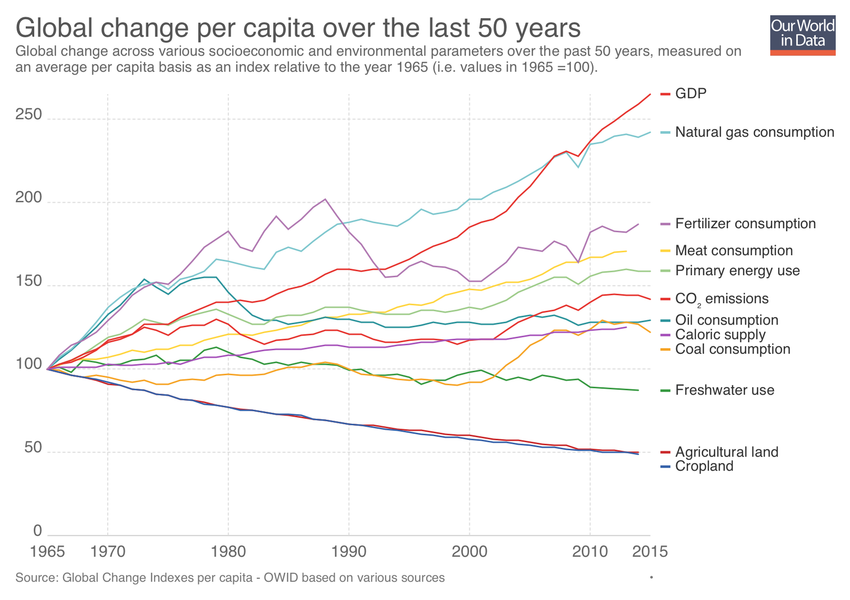
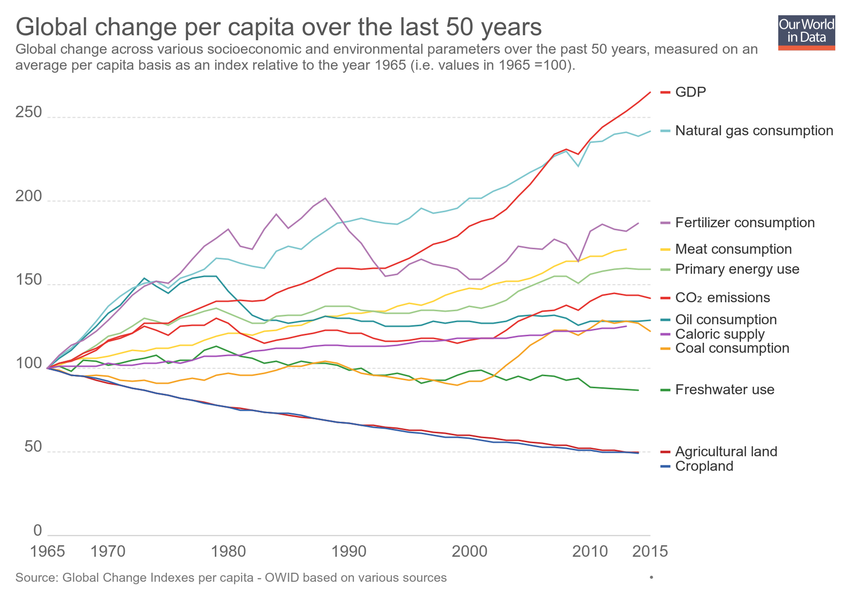
Updating chart global-change-per-capita-over-the-last-50-years

diff --git a/grapher/global-change-per-capita-over-the-last-50-years.html b/grapher/global-change-per-capita-over-the-last-50-years.html
@@ -1,4 +1,4 @@
-<!doctype html><html><head><meta name="viewport" content="width=device-width, initial-scale=1" /><title>Global change per capita over the last 50 years - Our World in Data</title><meta name="description" content="Global change across various socioeconomic and environmental parameters over the past 50 years, measured on an average per capita basis as an index relative to the year 1965 (i.e. values in 1965 =100)." /><link rel="canonical" href="https://ourworldindata.org/grapher/global-change-per-capita-over-the-last-50-years" /><meta property="fb:app_id" content="1149943818390250" /><meta property="og:url" content="https://ourworldindata.org/grapher/global-change-per-capita-over-the-last-50-years" /><meta property="og:title" content="Global change per capita over the last 50 years" /><meta property="og:description" content="Global change across various socioeconomic and environmental parameters over the past 50 years, measured on an average per capita basis as an index relative to the year 1965 (i.e. values in 1965 =100)." /><meta property="og:image" content="https://ourworldindata.org/grapher/exports/global-change-per-capita-over-the-last-50-years.png?v=1" /><meta property="og:image:width" content="850" /><meta property="og:image:height" content="600" /><meta property="og:site_name" content="Our World in Data" /><meta name="twitter:card" content="summary_large_image" /><meta name="twitter:site" content="@OurWorldInData" /><meta name="twitter:creator" content="@OurWorldInData" /><meta name="twitter:title" content="Global change per capita over the last 50 years" /><meta name="twitter:description" content="Global change across various socioeconomic and environmental parameters over the past 50 years, measured on an average per capita basis as an index relative to the year 1965 (i.e. values in 1965 =100)." /><meta name="twitter:image" content="https://ourworldindata.org/grapher/exports/global-change-per-capita-over-the-last-50-years.png?v=1" /><style>
+<!doctype html><html><head><meta name="viewport" content="width=device-width, initial-scale=1" /><title>Global change per capita over the last 50 years - Our World in Data</title><meta name="description" content="Global change across various socioeconomic and environmental parameters over the past 50 years, measured on an average per capita basis as an index relative to the year 1965 (i.e. values in 1965 =100)." /><link rel="canonical" href="https://ourworldindata.org/grapher/global-change-per-capita-over-the-last-50-years" /><meta property="fb:app_id" content="1149943818390250" /><meta property="og:url" content="https://ourworldindata.org/grapher/global-change-per-capita-over-the-last-50-years" /><meta property="og:title" content="Global change per capita over the last 50 years" /><meta property="og:description" content="Global change across various socioeconomic and environmental parameters over the past 50 years, measured on an average per capita basis as an index relative to the year 1965 (i.e. values in 1965 =100)." /><meta property="og:image" content="https://ourworldindata.org/grapher/exports/global-change-per-capita-over-the-last-50-years.png?v=2" /><meta property="og:image:width" content="850" /><meta property="og:image:height" content="600" /><meta property="og:site_name" content="Our World in Data" /><meta name="twitter:card" content="summary_large_image" /><meta name="twitter:site" content="@OurWorldInData" /><meta name="twitter:creator" content="@OurWorldInData" /><meta name="twitter:title" content="Global change per capita over the last 50 years" /><meta name="twitter:description" content="Global change across various socioeconomic and environmental parameters over the past 50 years, measured on an average per capita basis as an index relative to the year 1965 (i.e. values in 1965 =100)." /><meta name="twitter:image" content="https://ourworldindata.org/grapher/exports/global-change-per-capita-over-the-last-50-years.png?v=2" /><style>
         html, body {
             height: 100%;
             margin: 0;
@@ -20,8 +20,8 @@
         }
     </style><noscript><style>
                     figure { display: none !important; }
-                </style></noscript><link rel="stylesheet" href="https://ourworldindata.org/grapher/assets/commons.bundle.019a92548339820130b6.css" /><link rel="preload" href="/grapher/data/variables/43095+43096+43097+43098+43099+43100+43102+43103+43104+43106+43112+43113+43111.json?v=1" as="fetch" crossorigin /></head><body class="singleChart"><figure data-grapher-src="/grapher/global-change-per-capita-over-the-last-50-years"></figure><noscript id="fallback"><img src="/grapher/exports/global-change-per-capita-over-the-last-50-years.svg" /><p>Interactive visualization requires JavaScript</p></noscript><script src="https://cdn.polyfill.io/v2/polyfill.min.js?features=es6,fetch"></script><script src="https://ourworldindata.org/grapher/assets/commons.bundle.019a92548339820130b6.js"></script><script src="https://ourworldindata.org/grapher/assets/charts.bundle.dcf65b68eddaba4c6a58.js"></script><script>
-        var jsonConfig = {"id":1539,"map":{"projection":"World","legendStepSize":20,"colorSchemeLabels":[],"colorSchemeValues":[],"defaultProjection":"World","colorSchemeMinValue":0,"customNumericColors":[],"customCategoryColors":{},"customCategoryLabels":{},"customHiddenCategories":{}},"tab":"chart","slug":"global-change-per-capita-over-the-last-50-years","type":"LineChart","title":"Global change per capita over the last 50 years","xAxis":{"scaleType":"linear"},"yAxis":{"min":0,"scaleType":"linear"},"version":1,"subtitle":"Global change across various socioeconomic and environmental parameters over the past 50 years, measured on an average per capita basis as an index relative to the year 1965 (i.e. values in 1965 =100).","hasMapTab":false,"originUrl":"","stackMode":"absolute","dimensions":[{"id":10740,"order":0,"chartId":1539,"display":{},"property":"y","targetYear":null,"variableId":43095},{"id":10741,"order":1,"chartId":1539,"display":{},"property":"y","targetYear":null,"variableId":43096},{"id":10742,"order":2,"chartId":1539,"display":{},"property":"y","targetYear":null,"variableId":43097},{"id":10743,"order":3,"chartId":1539,"display":{},"property":"y","targetYear":null,"variableId":43098},{"id":10744,"order":4,"chartId":1539,"display":{},"property":"y","targetYear":null,"variableId":43099},{"id":10745,"order":5,"chartId":1539,"display":{},"property":"y","targetYear":null,"variableId":43100},{"id":10746,"order":6,"chartId":1539,"display":{},"property":"y","targetYear":null,"variableId":43102},{"id":10747,"order":7,"chartId":1539,"display":{},"property":"y","targetYear":null,"variableId":43103},{"id":10748,"order":8,"chartId":1539,"display":{},"property":"y","targetYear":null,"variableId":43104},{"id":10749,"order":9,"chartId":1539,"display":{},"property":"y","targetYear":null,"variableId":43106},{"id":10750,"order":10,"chartId":1539,"display":{},"property":"y","targetYear":null,"variableId":43112},{"id":10751,"order":11,"chartId":1539,"display":{},"property":"y","targetYear":null,"variableId":43113},{"id":10752,"order":12,"chartId":1539,"display":{},"property":"y","targetYear":null,"variableId":43111}],"isAutoSlug":true,"hasChartTab":true,"isPublished":true,"selectedData":[{"index":0,"entityId":355},{"index":1,"entityId":355},{"index":10,"entityId":355},{"index":11,"entityId":355},{"index":12,"entityId":355},{"index":13,"entityId":355},{"index":2,"entityId":355},{"index":3,"entityId":355},{"index":4,"entityId":355},{"index":5,"entityId":355},{"index":7,"entityId":355},{"index":8,"entityId":355},{"index":9,"entityId":355}],"internalNotes":"","addCountryMode":"change-country","hideTitleAnnotation":true};
+                </style></noscript><link rel="stylesheet" href="https://ourworldindata.org/grapher/assets/commons.bundle.019a92548339820130b6.css" /><link rel="preload" href="/grapher/data/variables/43095+43096+43097+43098+43099+43100+43102+43103+43104+43106+43112+43113+43111.json?v=2" as="fetch" crossorigin /></head><body class="singleChart"><figure data-grapher-src="/grapher/global-change-per-capita-over-the-last-50-years"></figure><noscript id="fallback"><img src="/grapher/exports/global-change-per-capita-over-the-last-50-years.svg" /><p>Interactive visualization requires JavaScript</p></noscript><script src="https://cdn.polyfill.io/v2/polyfill.min.js?features=es6,fetch"></script><script src="https://ourworldindata.org/grapher/assets/commons.bundle.019a92548339820130b6.js"></script><script src="https://ourworldindata.org/grapher/assets/charts.bundle.dcf65b68eddaba4c6a58.js"></script><script>
+        var jsonConfig = {"id":1539,"map":{"projection":"World","colorSchemeLabels":[],"colorSchemeValues":[],"colorSchemeMinValue":0,"customNumericColors":[],"customCategoryColors":{},"customCategoryLabels":{},"customHiddenCategories":{}},"tab":"chart","slug":"global-change-per-capita-over-the-last-50-years","type":"LineChart","title":"Global change per capita over the last 50 years","xAxis":{"scaleType":"linear"},"yAxis":{"min":0,"scaleType":"linear"},"version":2,"subtitle":"Global change across various socioeconomic and environmental parameters over the past 50 years, measured on an average per capita basis as an index relative to the year 1965 (i.e. values in 1965 =100).","hasMapTab":false,"originUrl":"","stackMode":"absolute","dimensions":[{"display":{},"property":"y","variableId":43095},{"display":{},"property":"y","variableId":43096},{"display":{},"property":"y","variableId":43097},{"display":{},"property":"y","variableId":43098},{"display":{},"property":"y","variableId":43099},{"display":{},"property":"y","variableId":43100},{"display":{},"property":"y","variableId":43102},{"display":{},"property":"y","variableId":43103},{"display":{},"property":"y","variableId":43104},{"display":{},"property":"y","variableId":43106},{"display":{},"property":"y","variableId":43112},{"display":{},"property":"y","variableId":43113},{"display":{},"property":"y","variableId":43111}],"hasChartTab":true,"isPublished":true,"selectedData":[{"index":0,"entityId":355},{"index":1,"entityId":355},{"index":10,"entityId":355},{"index":11,"entityId":355},{"index":12,"entityId":355},{"index":13,"entityId":355},{"index":2,"entityId":355},{"index":3,"entityId":355},{"index":4,"entityId":355},{"index":5,"entityId":355},{"index":7,"entityId":355},{"index":8,"entityId":355},{"index":9,"entityId":355}],"internalNotes":"","addCountryMode":"change-country","hideTitleAnnotation":true};
         var figure = document.getElementsByTagName("figure")[0];
         try {
             window.App = {};
